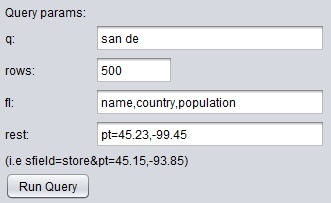
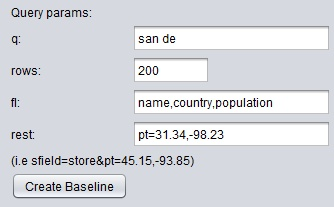
release 0.6, readme etc

diff --git a/README.md b/README.md
@@ -1,11 +1,11 @@
-# Vifun: a GUI to help visually tweak Solr boosting
+# Vifun: a GUI to help visually tweak Solr scoring
 ![full window](https://github.com/jmlucjav/vifun/raw/master/img/screenshot-win-small.jpg)
 
 Description
 ---------------
 
 Did you ever spend lots of time trying to tweak all numbers in a **edismax** handler **qf**, **bf**, etc params so docs get scored to your liking?
-Imagine you have the params below, is 20 the right boosting for *name* or is it too much? Is *population* being boosted too much versus distance? What about new documents?
+Imagine you have the params below, is 20 the right boosting for *name* or is it too much? Is *population* being boosted too much versus distance? What about *moddate*?
 
 			<!-- fields, boost some -->
 			<str name="qf">name^20 textsuggest^10 edge^5 ngram^2 phonetic^1</str>
@@ -25,26 +25,24 @@ Features
 
 - Can tweak numeric values (int or float) in the following params: **qf, pf, pf2, pf3, ps, ps2, ps3, bf, bq, boost, mm, tie** (others can be easily added) even in **&lt;appends&gt; or &lt;invariants&gt;**
 - View side by side a Baseline query result and how it changes when you gradually change each value in the params
-- Colorized values, color depends on how the document does related to baseline query
-- Tooltips give you Explain info 
+- Colorized values, color depends on how the document does related to baseline query. Also colorized side by side comparison of both Explain info
 - Works on remote Solr installations
-- Tested with Solr 3.6, 4.0 and 4.1 (other versions would work too, as long as wt=javabin format is compatible)
+- Tested with Solr 3.6, 4.0, 4.1 and 4.2 candidate (other versions would work too, as long as wt=javabin format is compatible)
 - Developed using Groovy/Griffon
 
 Requirements
 -------------------
 
-- **/select** handler should be available, and not have any **&lt;appends&gt; or &lt;invariants&gt;**, as it could interfere with how vifun works.
+- **/select** handler should be available (other handler can be used, see in Advanced Configuration), and not have any **&lt;appends&gt; or &lt;invariants&gt;**, as it could interfere with how vifun works.
 - **jdk1.6** is needed (maybe it runs on jdk1.5 too, but I didn't test). A JRE should be enough.
 
 Getting started
 -------------------
 
-### [Click here to download latest version](http://code.google.com/p/vifun/downloads/detail?name=vifun-0.5.zip) and unzip
--`chmod +x bin/vifun` if on linux/OSX
-- Run `bin\vifun.bat` or `bin/vifun` if on linux/OSX 
+### [Click here to download latest version](http://code.google.com/p/vifun/downloads/detail?name=vifun-0.6.zip) and unzip
+- Fix permssions first if on linux/OSX `chmod +x bin/vifun` 
+- Run `bin\vifun.bat` or `bin/vifun` 
 - Edit **Solr URL** to match yours (in Sol4.1 default is http://localhost:8983/solr/collection1 for example)
-![hander selection](https://github.com/jmlucjav/vifun/raw/master/img/screenshot-handlers.jpg)
 - **Show Handerls**, and select the handler you wish to tweak from **Handerls** dropdown. The text area below shows the parameters of the handler.
 - Modify the values to run a baseline query:
     - **q**: query string you want to use
@@ -52,21 +50,24 @@ Getting started
     - **fl**: comma separated list of fields you want to show for each doc, keep it short (other fields needed will be added, like the id, score) 
     - **rest**: in case you need to add more params, for example: sfield, fq etc)
 ![query params](https://github.com/jmlucjav/vifun/raw/master/img/screenshot-qparams.jpg)
-- **Run Query**. The two panels on the right will show the same result, sorted by score. 
+- **Create Baseline**. The two panels on the right will show the same result, sorted by score. 
 ![results](https://github.com/jmlucjav/vifun/raw/master/img/screenshot-results.jpg)
 - Use the mouse to select the number you want to tweak in Score params (select all the digits). Note the label of the field is highlighted with current value. Notice that you can also manually edit the param contents.
 ![target selection](https://github.com/jmlucjav/vifun/raw/master/img/screenshot-selecttarget.jpg)
 - Move the slider, release and see how a new query is run, and you can compare how result changes with the current value. In the Current
 table, you can see current position/score and also delta relative to the baseline. The colour of the row reflects how much the doc gained/lost. A + means the maximum gain (the doc was not in Baseline).
 ![tweaking a value](https://github.com/jmlucjav/vifun/raw/master/img/screenshot-baseline.jpg)
+- A doubleclick in any cell in Current table will show a window with a side by side comparison of explain info from the document, differences are highlighted
+![tweaking a value](https://github.com/jmlucjav/vifun/raw/master/img/screenshot-explain-comparison.jpg)
 - You can increase the limits of the slider, and if you are satisfied with a value, set it, so it will be set to current value. 
 - Tweak another number...
 - Tooltips exist in Current (Explain info) and Baseline (pos/score of that doc in Current, and Explain in Score column)
 
 
-### If you want to run from source (griffon1.1.0 required, make sure griffon is in your path etc):
+### If you want to run from source:
 
 - Clone the project
+- if you don't have griffon-1.2.0 installed, the following command will set it up for you: `griffonw.bat` or `chmod +x griffonw; ./griffonw`
 - `cd vifun`
 - `griffon run-app`
 - point to your Solr instance and proceed as above
@@ -78,6 +79,16 @@ It's very simple really, after taking all parameters from the selected handler, 
 request is made to /select, this way any param can be tweaked, even invariants. Baseline result is kept around and compared with Current one, and rows are colored based
 on how much its position/score changed. 
 
+Advanced Configuration (only available when running from source)
+----------------------
+
+There are a couple of things that can be customized:
+- griffon-app\conf\Config.groovy
+    - vifun.baseline.rows.multiplier: when running the Baseline query, *rows* param will be set to: *rows* * *this param*. The intent of this is to have a buffer of docs in order to have more info about how they moved up in Current. When a doc was not present at all in Baseline will show up with a delta value + in Current.
+    - vifun.handler: in case you prefer to use a different handler than /select to run our queries.
+- griffon-app\conf\BuildConfig.groovy
+    - if you want to change memory settings, search for *memory* and customize as desired
+
 Contributing
 ----------------
 
@@ -85,4 +96,3 @@ This is released under Apache 2.0 License. If you want to contribute, issues, pu
 opened issues for things I want to implement in the future.
 
 **Contact**: jmlucjav@gmail.com
-
